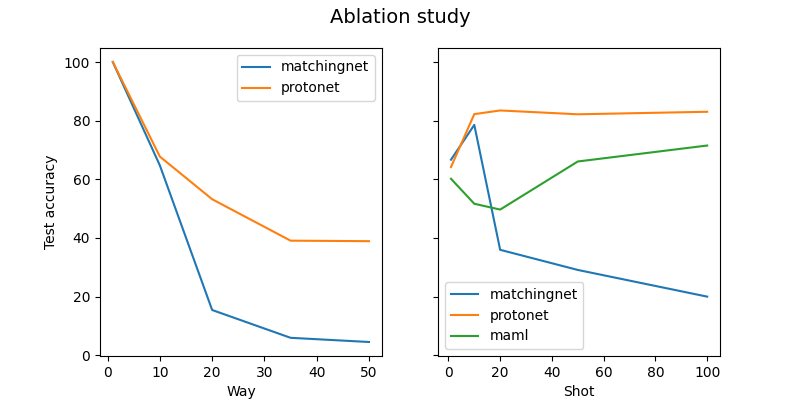
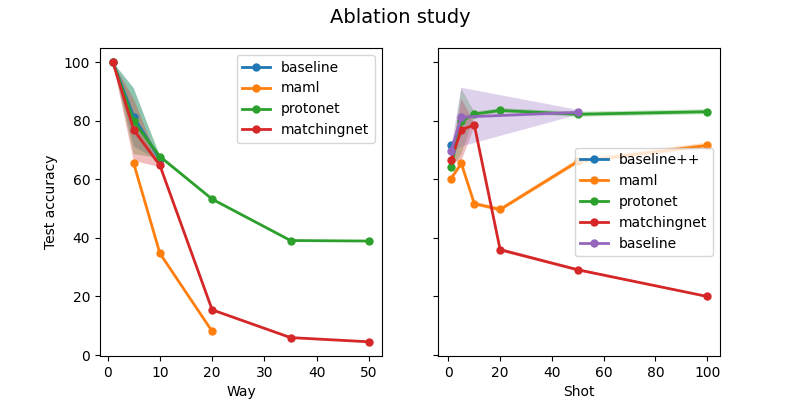
ablation update (everything but b++)

diff --git a/plot_ablation.py b/plot_ablation.py
@@ -1,19 +1,26 @@
-import pandas as pd
-import re,sys
+import re, os
 import matplotlib.pyplot as plt
 
-def remove_ci(accuracy):
-    # Use a regular expression to match the first percentage value
-    match = re.match(r'(\d+\.\d+)%', accuracy)
+def get_num_param(input_string):
+    """
+    Given a string of the form "Xword", where X is a number and word is a string,
+    it splits the string into the number and the string.
+    In our case the word/string is the parameter we are varying.
+    """
+    match = re.match(r'(\d+)([a-zA-Z]+)', input_string)
 
     if match:
-        first_percentage = match.group(1)
-        return float(first_percentage)
+        num = int(match.group(1))
+        param = "n_" + match.group(2)
+        return num, param
     else:
-        print("No percentage found in the input string")
-
+        print("No match found.")
 
 def get_accuracies(file_name):
+    """
+    Reads the train, val and test accuracies from the results.txt file,
+    as well as their confidence intervals.
+    """
     data_dict = {}
     # Open and read the text file
     with open(file_name, 'r') as file:
@@ -28,46 +35,62 @@ def get_accuracies(file_name):
                 line_dict[param_name] = param
             
             if "-train-" in line_dict["Setting"]:
-                data_dict["Train"] = remove_ci(line_dict["Acc"])
+                data_dict["Train"] = float(line_dict["Acc"].split(" +- ")[0].rstrip("%"))
+                data_dict["TrainCI"] = float(line_dict["Acc"].split(" +- ")[1].rstrip("%"))
             elif "-val-" in line_dict["Setting"]:
-                data_dict["Val"] = remove_ci(line_dict["Acc"])
+                data_dict["Val"] = float(line_dict["Acc"].split(" +- ")[0].rstrip("%"))
+                data_dict["ValCI"] = float(line_dict["Acc"].split(" +- ")[1].rstrip("%"))
             elif "-test-" in line_dict["Setting"]:
-                data_dict["Test"] = remove_ci(line_dict["Acc"])
+                data_dict["Test"] = float(line_dict["Acc"].split(" +- ")[0].rstrip("%"))
+                data_dict["TestCI"] = float(line_dict["Acc"].split(" +- ")[1].rstrip("%"))
             else:
                 print("FIX")
     return data_dict
 
-
-def get_df(param, method):
-    all_results = {}
-
-
-    samples = {}
-    samples["n_shot"] = [1, 10, 20, 50, 100] # Nshots
-    samples["n_way"] = [1, 10, 20, 35, 50]  # Nways
-
-    for sample in samples[param]:
-        file_name = "fewshotbench_v2/checkpoints/atacseq_adult_promoter_{}_{}{}/results.txt".format(method, sample, param[2:])
-        result = get_accuracies(file_name)
-        all_results[sample] = result
-
-    df = pd.DataFrame(all_results).T
-    return df
-
+    
 
 def main():
-    methods = ["matchingnet", "protonet"]
+    """
+    Plots the results of the ablation study.
+    """
+    results = {"n_shot": {}, "n_way": {}}
+    checkpoints_dir = "fewshotbench_v2/checkpoints"
+    # Get all the experiments that we run
+    experiments = [f for f in os.listdir(checkpoints_dir) if os.path.isdir(os.path.join(checkpoints_dir, f))]
 
+    # Get the results for each experiment
+    for experiment in experiments:
+        # Change name for readability
+        experiment_name = experiment.replace("baseline_pp", "baseline++")
+        method = experiment_name.split('_')[3]
+        num, param = get_num_param(experiment_name.split('_')[-1])
+        file_name = os.path.join(checkpoints_dir, experiment, "results.txt")
+        accuracies = get_accuracies(file_name)
+        if method not in results[param]:
+            results[param][method] = [(num, accuracies["Test"], accuracies["TestCI"])]
+        else:
+            results[param][method].append((num, accuracies["Test"], accuracies["TestCI"]))
+
+    # Plot the results
     fig, axes = plt.subplots(1, 2, figsize=(8,4), sharey=True)
-    
-    for method in methods+["maml"]:
-        df = get_df("n_shot", method)
-        df["Test"].plot(ax=axes[1], label=method)
 
-    for method in methods:
-        df = get_df("n_way", method)
-        df["Test"].plot(ax=axes[0], label=method)
+    # Sort the results by the number of shots/ways and plot Test accuracy + CI
+    for method, exp_results in results["n_way"].items():
+        exp_results.sort(key=lambda x: x[0])
+        x, y, ci = zip(*exp_results)
+        lower_ci = tuple(y[i]-ci[i] for i in range(len(y)))
+        upper_ci = tuple(y[i]+ci[i] for i in range(len(y)))
+        axes[0].plot(x, y, label=method, linewidth=2, marker='o', markersize=5)
+        axes[0].fill_between(x, lower_ci, upper_ci, alpha=0.3)
     
+    for method, exp_results in results["n_shot"].items():
+        exp_results.sort(key=lambda x: x[0])
+        x, y, ci = zip(*exp_results)
+        lower_ci = tuple(y[i]-ci[i] for i in range(len(y)))
+        upper_ci = tuple(y[i]+ci[i] for i in range(len(y)))
+        axes[1].plot(x, y, label=method, linewidth=2, marker='o', markersize=5)
+        axes[1].fill_between(x, lower_ci, upper_ci, alpha=0.3)
+
     axes[1].legend()
     axes[0].legend()
     axes[1].set_xlabel("Shot")
